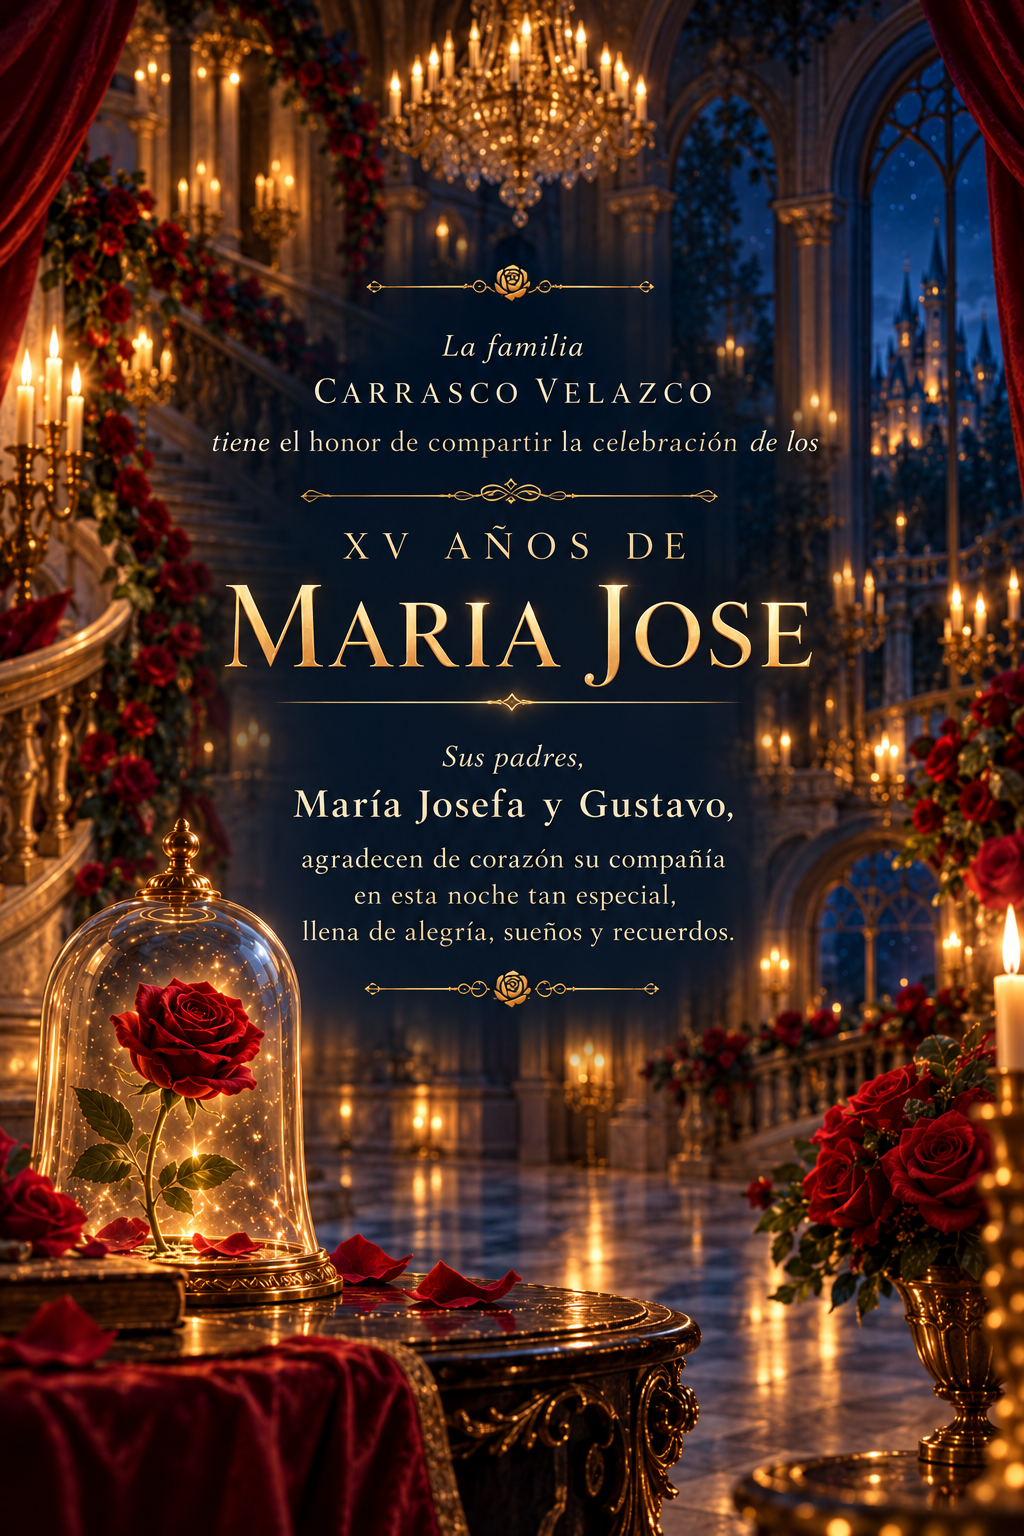
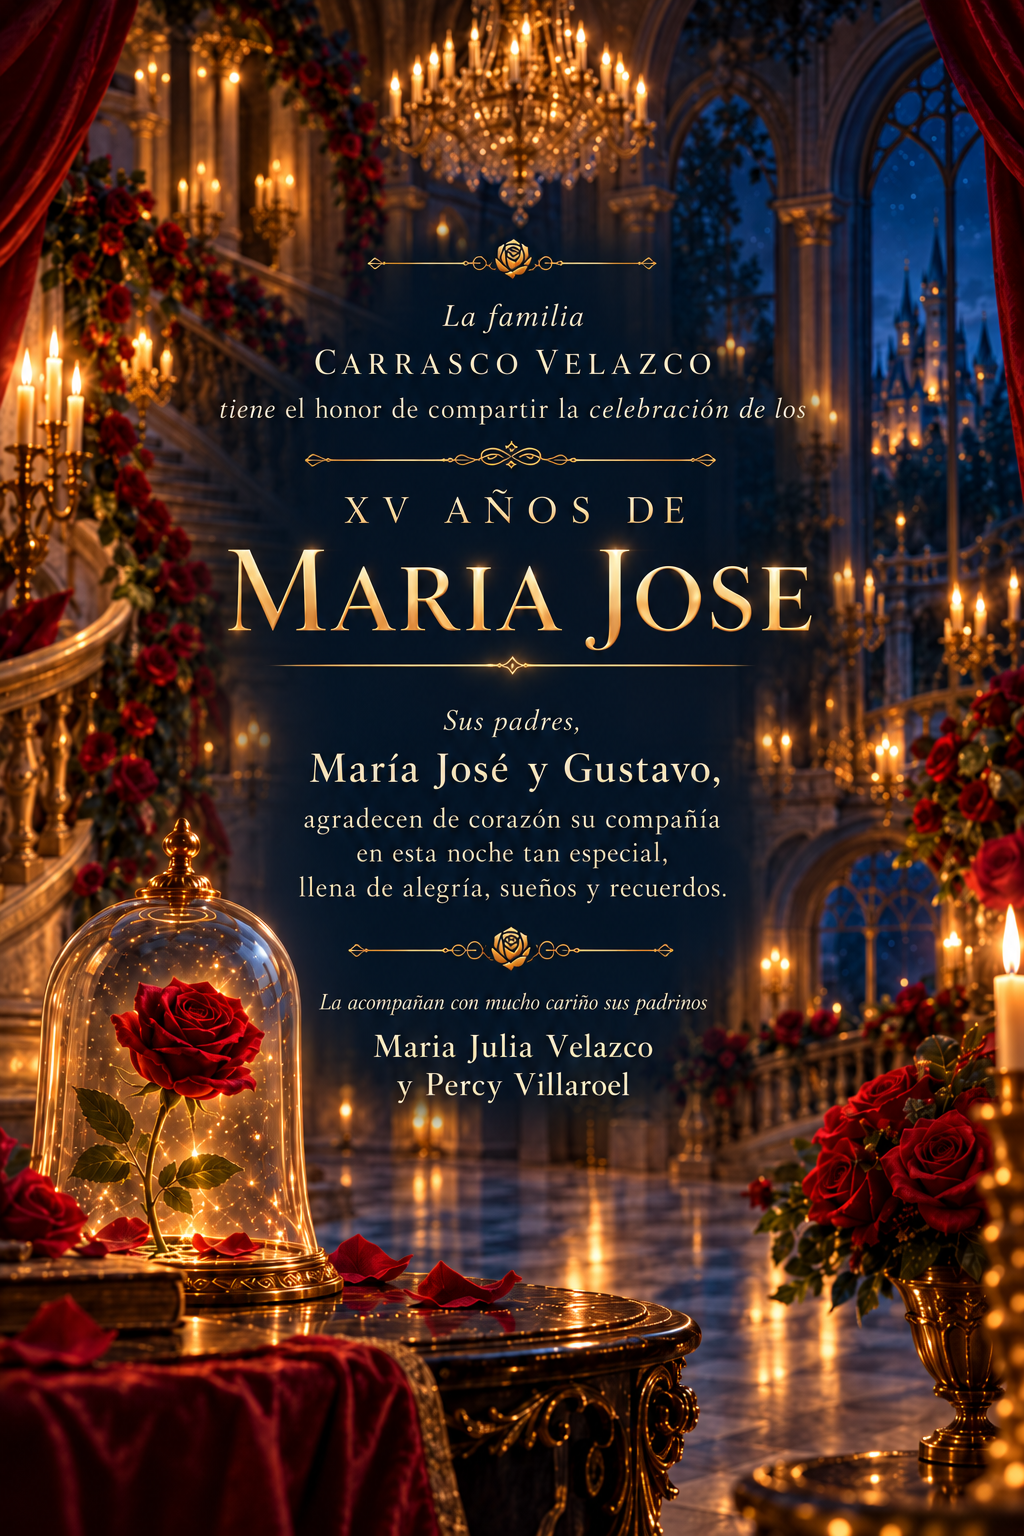
Add files via upload

diff --git a/styles.css b/styles.css
@@ -6,35 +6,7 @@
   font-display: swap;
 }
 
-*{box-sizing:border-box}html{scroll-behavior:smooth}body{margin:0;background:#070913;color:#fff;font-family:Georgia,'Times New Roman',serif}.page{position:relative;width:100%;aspect-ratio:2/3;overflow:hidden}.page>img{display:block;width:100%;height:100%;object-fit:fill}.hotspot{position:absolute;border:0;background:transparent;cursor:pointer;z-index:5}.hs-cover{left:26%;right:26%;bottom:7%;height:8%}.hs-invite{left:26%;right:26%;bottom:6%;height:8%}.hs-map{left:27%;right:27%;top:69.5%;height:7.5%}.hs-next{left:25%;right:25%;bottom:1%;height:5%}.hs-yes{left:34%;right:18%;top:51.5%;height:7.2%}.hs-no{left:34%;right:18%;top:59.5%;height:7.2%}.hs-restart{left:30%;right:30%;bottom:8%;height:8%}.countdown .live-count{position:absolute;left:12.5%;right:12.5%;top:67.2%;height:4.5%;display:grid;grid-template-columns:repeat(4,1fr);align-items:center;text-align:center;z-index:4;pointer-events:none}.live-count strong{display:flex;align-items:center;justify-content:center;height:100%;font-size:clamp(22px,6.5vw,49px);font-weight:400;line-height:1;color:#f5d58a;text-shadow:none}.photos .qr-area{position:absolute;left:12%;right:12%;top:79.5%;height:16%;display:grid;grid-template-columns:30% 1fr;align-items:center;column-gap:8%;z-index:4}.qr-placeholder{width:100%;aspect-ratio:1;background:#fff;padding:4%;box-shadow:0 0 0 2px rgba(238,197,104,.8)}.qr-placeholder img{display:block;width:100%;height:100%;object-fit:contain}.qr-copy{width:100%;text-align:left}.qr-copy p{margin:0 0 12px;font-size:clamp(11px,3vw,18px);line-height:1.3;color:#f4e1b2;text-shadow:0 1px 4px #000}.photo-btn{display:inline-block;padding:9px 14px;border:1px solid #d9b66a;border-radius:20px;color:#f7e5b5;text-decoration:none;font-size:clamp(9px,2.3vw,15px);letter-spacing:.06em;background:rgba(5,8,18,.55)}.music{position:fixed;right:14px;bottom:14px;width:42px;height:42px;border-radius:50%;border:1px solid #d9b66a;background:rgba(5,8,18,.75);color:#f6d994;font-size:20px;z-index:20;display:flex;align-items:center;justify-content:center;line-height:1;padding:0;text-align:center}/* V14: shared responsive padrinos block and soft continuation of the existing blue shading. */
-#invitacion::after{
-  content:"";
-  position:absolute;
-  left:12%; right:12%; top:58%; bottom:7%;
-  z-index:2; pointer-events:none;
-  background:linear-gradient(to bottom,
-    rgba(3,14,31,0) 0%,
-    rgba(3,14,31,.18) 18%,
-    rgba(3,14,31,.46) 42%,
-    rgba(3,14,31,.58) 66%,
-    rgba(3,14,31,.18) 90%,
-    rgba(3,14,31,0) 100%);
-  filter:blur(5px);
-}
-#invitacion .padrinos{
-  position:absolute;
-  left:30%; right:30%; top:67.4%;
-  z-index:4; margin:0;
-  text-align:center;
-  color:#f4e1b2;
-  font-family:Georgia,'Times New Roman',serif;
-  font-size:clamp(10px,2.6vw,16px);
-  line-height:1.22;
-  letter-spacing:.01em;
-  text-shadow:0 1px 4px #000;
-  pointer-events:none;
-}
-@media(min-width:700px){body{display:flex;justify-content:center}.page{width:500px}.music{right:calc(50% - 235px)}}
+*{box-sizing:border-box}html{scroll-behavior:smooth}body{margin:0;background:#070913;color:#fff;font-family:Georgia,'Times New Roman',serif}.page{position:relative;width:100%;aspect-ratio:2/3;overflow:hidden}.page>img{display:block;width:100%;height:100%;object-fit:fill}.hotspot{position:absolute;border:0;background:transparent;cursor:pointer;z-index:5}.hs-cover{left:26%;right:26%;bottom:7%;height:8%}.hs-invite{left:26%;right:26%;bottom:6%;height:8%}.hs-map{left:27%;right:27%;top:69.5%;height:7.5%}.hs-next{left:25%;right:25%;bottom:1%;height:5%}.hs-yes{left:34%;right:18%;top:51.5%;height:7.2%}.hs-no{left:34%;right:18%;top:59.5%;height:7.2%}.hs-restart{left:30%;right:30%;bottom:8%;height:8%}.countdown .live-count{position:absolute;left:12.5%;right:12.5%;top:67.2%;height:4.5%;display:grid;grid-template-columns:repeat(4,1fr);align-items:center;text-align:center;z-index:4;pointer-events:none}.live-count strong{display:flex;align-items:center;justify-content:center;height:100%;font-size:clamp(22px,6.5vw,49px);font-weight:400;line-height:1;color:#f5d58a;text-shadow:none}.photos .qr-area{position:absolute;left:12%;right:12%;top:79.5%;height:16%;display:grid;grid-template-columns:30% 1fr;align-items:center;column-gap:8%;z-index:4}.qr-placeholder{width:100%;aspect-ratio:1;background:#fff;padding:4%;box-shadow:0 0 0 2px rgba(238,197,104,.8)}.qr-placeholder img{display:block;width:100%;height:100%;object-fit:contain}.qr-copy{width:100%;text-align:left}.qr-copy p{margin:0 0 12px;font-size:clamp(11px,3vw,18px);line-height:1.3;color:#f4e1b2;text-shadow:0 1px 4px #000}.photo-btn{display:inline-block;padding:9px 14px;border:1px solid #d9b66a;border-radius:20px;color:#f7e5b5;text-decoration:none;font-size:clamp(9px,2.3vw,15px);letter-spacing:.06em;background:rgba(5,8,18,.55)}.music{position:fixed;right:14px;bottom:14px;width:42px;height:42px;border-radius:50%;border:1px solid #d9b66a;background:rgba(5,8,18,.75);color:#f6d994;font-size:20px;z-index:20;display:flex;align-items:center;justify-content:center;line-height:1;padding:0;text-align:center}@media(min-width:700px){body{display:flex;justify-content:center}.page{width:500px}.music{right:calc(50% - 235px)}}
 
 /* V9: mobile full-screen section presentation only */
 @media (max-width:699px){
@@ -63,40 +35,67 @@
 @media(min-width:700px){.music{top:14px;bottom:auto;}}
 
 
-/* V18 FINAL: padrinos integrated into the existing blue center without darkening the section. */
-#invitacion::after{content:none;}
-#invitacion .padrinos{
-  left:27%; right:27%; top:67.1%; z-index:4; margin:0;
-  text-align:center;
-  color:#f1dfb1;
-  font-family:'Cormorant Garamond Local', Georgia, 'Times New Roman', serif;
-  font-size:clamp(11px,2.45vw,15px);
-  font-weight:500;
-  line-height:1.18;
-  letter-spacing:.015em;
-  text-shadow:0 1px 3px rgba(0,0,0,.55);
-  pointer-events:none;
-  isolation:isolate;
-}
-/* Local, horizontal blue haze only behind the padrinos text. No box and no full-section overlay. */
-#invitacion .padrinos::before{
-  content:"";
+
+/* FINAL V19: padrinos are baked into the invitation artwork; no HTML overlay. */
+
+/* FINAL V19: countdown numbers stay anchored to the artwork on every viewport. */
+.countdown { position:relative; }
+.countdown > img {
   position:absolute;
-  left:-45%; right:-45%; top:-95%; bottom:-95%;
-  z-index:-1; pointer-events:none;
-  background:radial-gradient(ellipse 52% 42% at 50% 50%,
-    rgba(5,20,43,.52) 0%,
-    rgba(5,20,43,.34) 42%,
-    rgba(5,20,43,.14) 66%,
-    rgba(5,20,43,0) 100%);
-  filter:blur(7px);
+  inset:0;
+  width:100%;
+  height:100%;
+  max-width:none;
+  max-height:none;
+  display:block;
+  object-fit:fill;
 }
-@media(min-width:700px){
-  .countdown .live-count{top:65.9%;height:4.8%;}
-  .live-count strong{font-size:29px;}
-  #invitacion .padrinos{left:27%;right:27%;top:67.1%;font-size:13px;line-height:1.18;letter-spacing:.015em;}
+.countdown .live-count{
+  position:absolute;
+  left:12.5%;
+  right:12.5%;
+  top:65.9%;
+  height:4.8%;
+  display:grid;
+  grid-template-columns:repeat(4,1fr);
+  align-items:center;
+  text-align:center;
+  z-index:4;
+  pointer-events:none;
+}
+.countdown .live-count strong{
+  display:flex;
+  align-items:center;
+  justify-content:center;
+  height:100%;
+  margin:0;
+  padding:0;
+  font-size:29px;
+  font-weight:400;
+  line-height:1;
+  color:#f5d58a;
+  text-shadow:none;
+  font-family:Georgia,'Times New Roman',serif;
 }
 @media(max-width:699px){
-  #days{transform:translateX(-4.6%);}
+  .countdown > img{
+    position:absolute;
+    inset:0;
+    width:100%;
+    height:100%;
+    object-fit:fill;
+    transform:scale(1.06);
+    transform-origin:center center;
+  }
+  .countdown .live-count{
+    left:12.5%;
+    right:12.5%;
+    top:67.2%;
+    height:4.5%;
+  }
+  .countdown .live-count strong{
+    font-size:clamp(22px,6.5vw,49px);
+  }
+  #days{transform:translateX(-6%);}
   #seconds{transform:translateX(2%);}
 }

diff --git a/index.html b/index.html
@@ -1,6 +1,6 @@
 <!doctype html><html lang="es"><head><meta charset="utf-8"><meta name="viewport" content="width=device-width,initial-scale=1,viewport-fit=cover"><meta name="theme-color" content="#070913"><title>MARIA JOSE · Mis XV años</title><link rel="stylesheet" href="styles.css"></head><body><main id="app">
 <section class="page" id="portada"><img src="assets/01-portada.png" alt="Portada"><button class="hotspot hs-cover" data-next="invitacion" aria-label="Abrir invitación"></button></section>
-<section class="page" id="invitacion"><img src="assets/02-invitacion.png" alt="La invitación"><p class="padrinos">Los acompañan con mucho cariño sus padrinos Maria Julia Velazco y Percy Villaroel</p><button class="hotspot hs-invite" data-next="lugar" aria-label="Continuar"></button></section>
+<section class="page" id="invitacion"><img src="assets/02-invitacion.png" alt="La invitación"><button class="hotspot hs-invite" data-next="lugar" aria-label="Continuar"></button></section>
 <section class="page" id="lugar"><img src="assets/03-lugar.png" alt="Fecha y lugar"><a class="hotspot hs-map" href="https://maps.app.goo.gl/VUgLsLGdhGaerHy19" target="_blank" rel="noopener" aria-label="Ver ubicación"></a><button class="hotspot hs-next" data-next="cuenta" aria-label="Continuar"></button></section>
 <section class="page countdown" id="cuenta"><img src="assets/04-cuenta-regresiva.png" alt="Cuenta regresiva"><div class="live-count" aria-live="polite"><strong id="days">--</strong><strong id="hours">--</strong><strong id="minutes">--</strong><strong id="seconds">--</strong></div></section>
 <section class="page" id="dress"><img src="assets/05-dress-code.png" alt="Dress Code"></section>

diff --git a/README.md b/README.md
@@ -15,4 +15,4 @@ El archivo `index.html` debe quedar en la raíz del repositorio.
 
 ## Nota
 
-La tipografía de los padrinos está incluida localmente en el repositorio, por lo que la invitación no depende de Google Fonts para ese texto.
+El texto de padrinos está integrado directamente en la imagen de la invitación para conservar exactamente su composición visual. La tipografía local se mantiene disponible dentro del proyecto.
